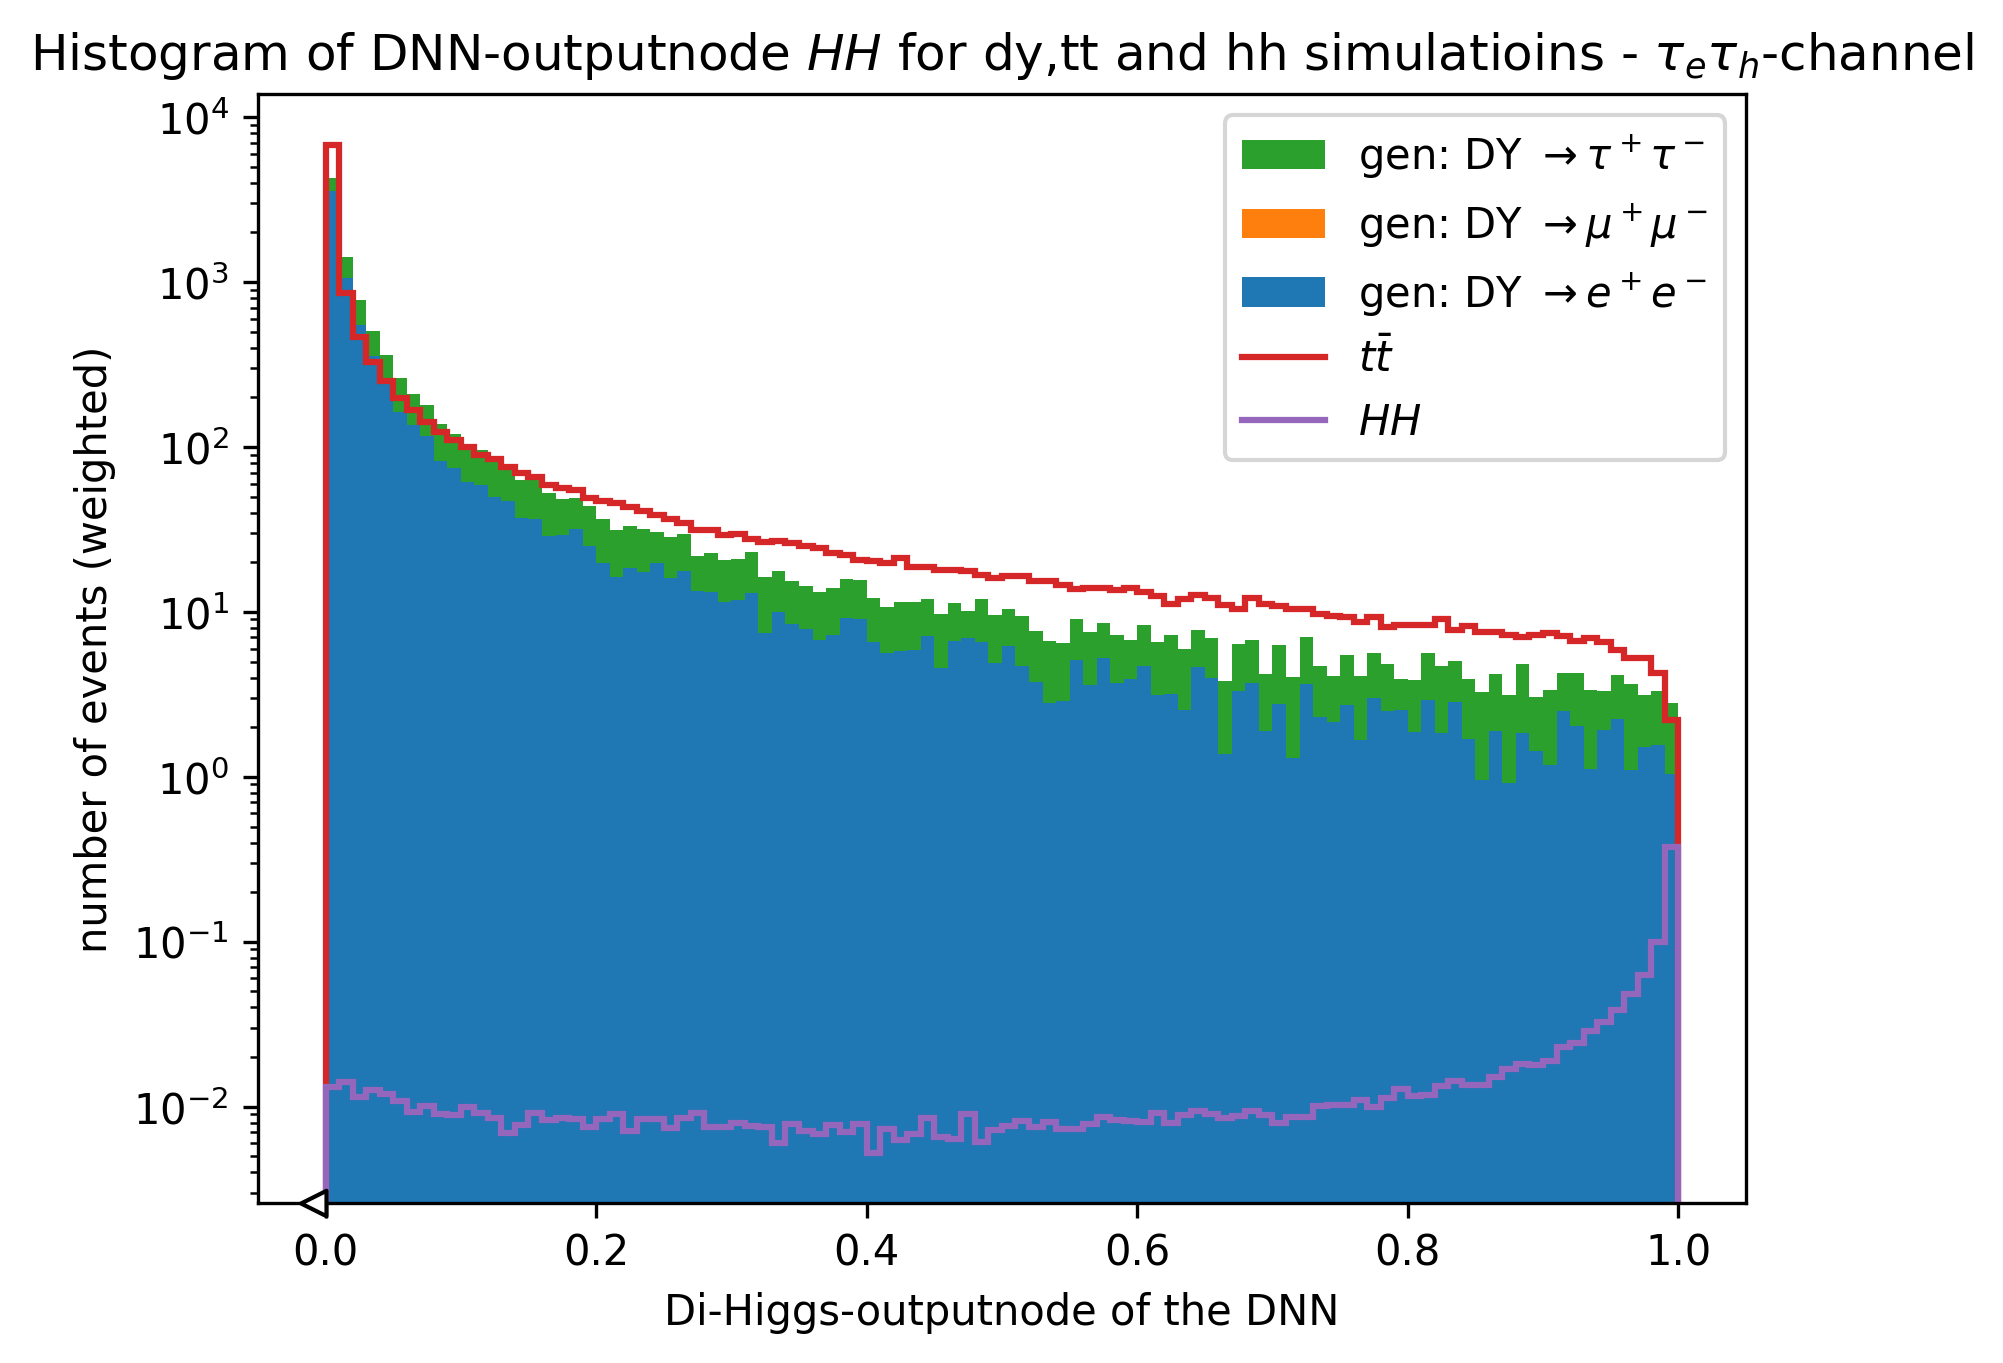
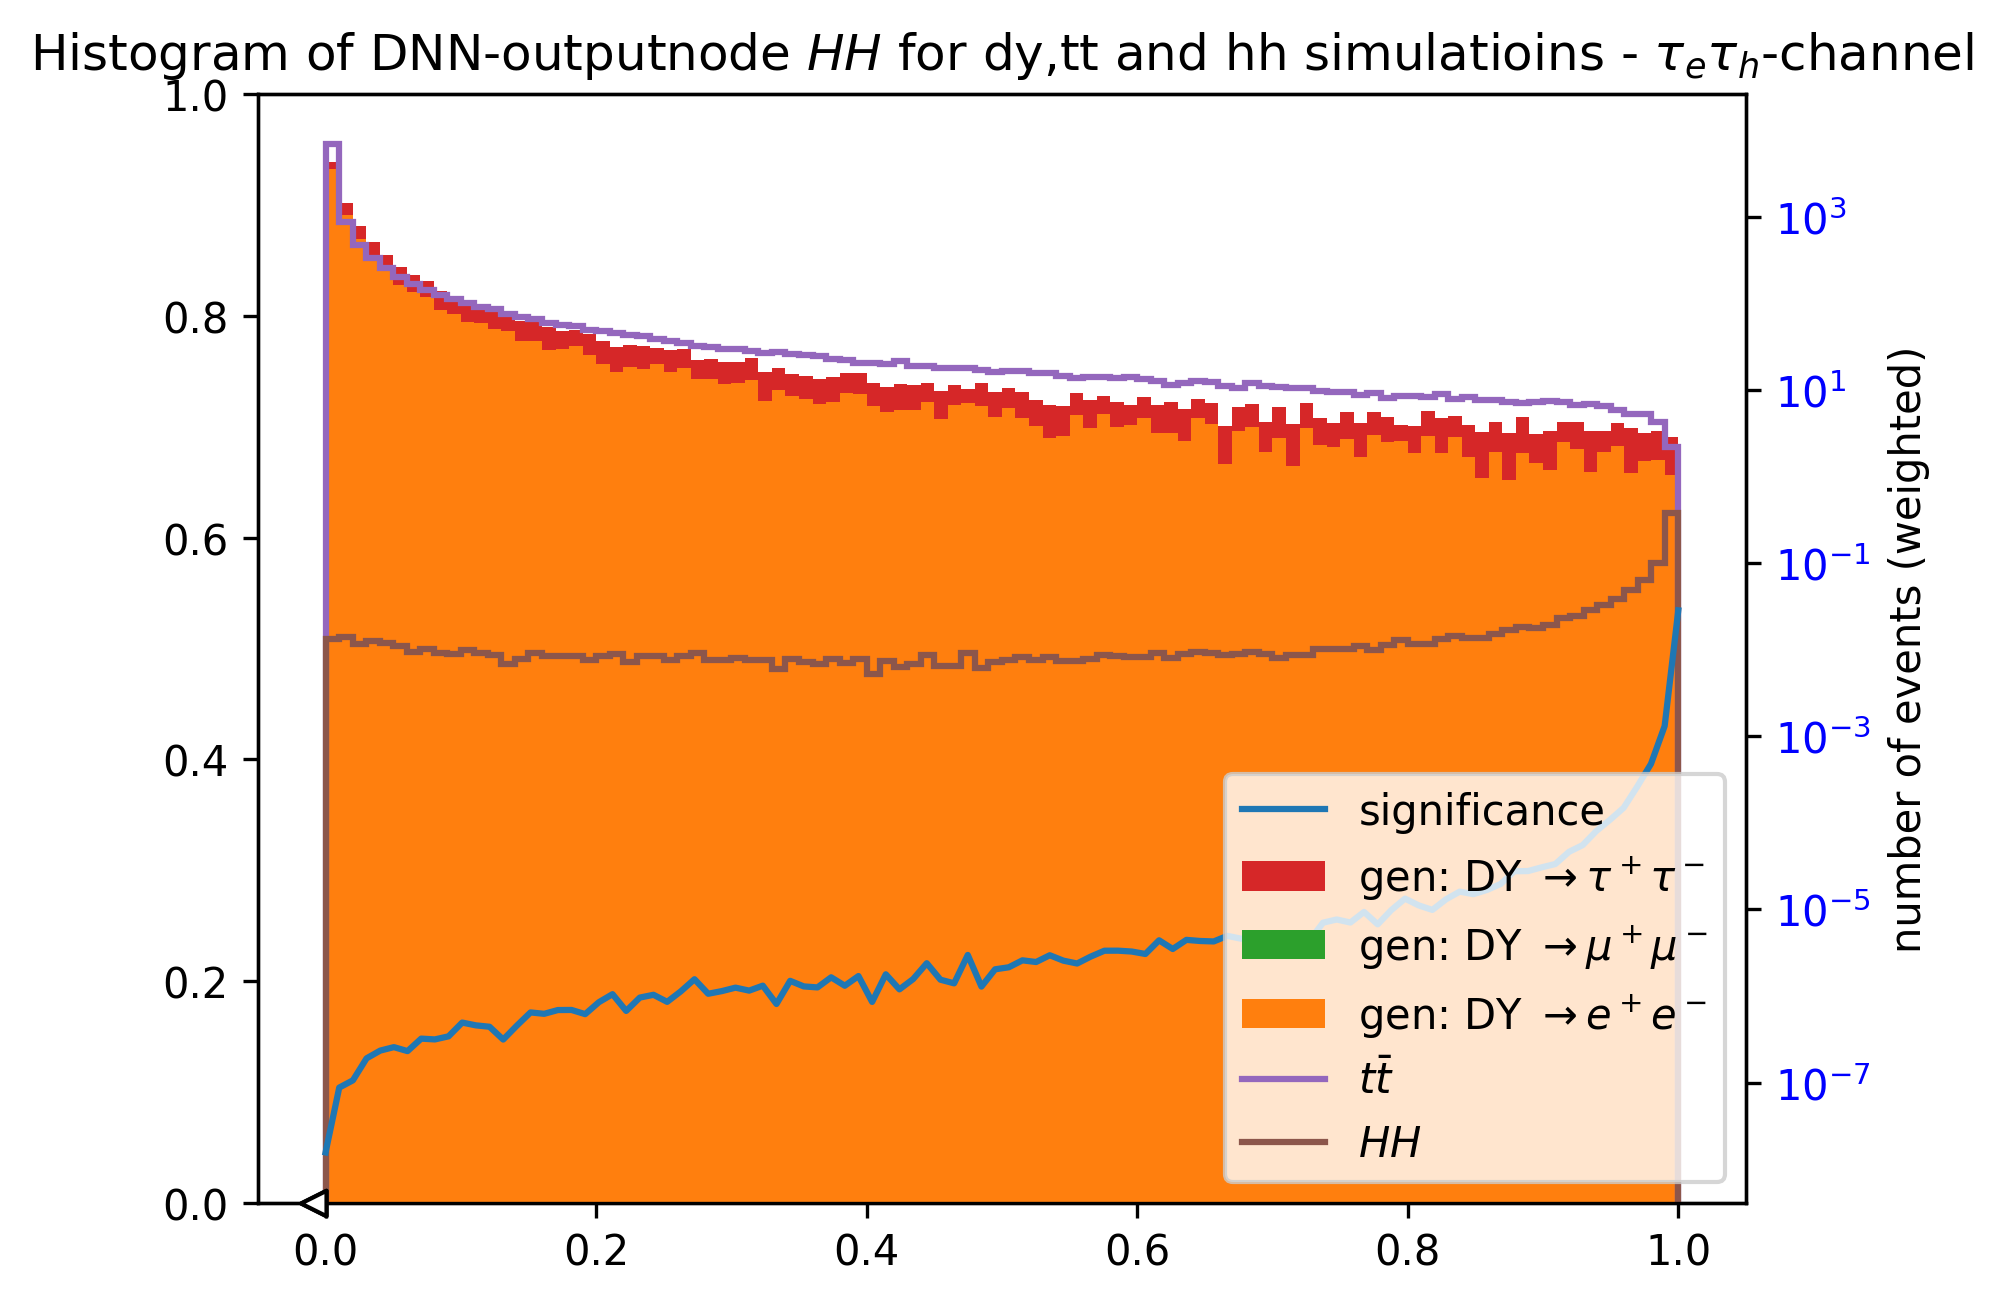
Signifikanz zu einem Plot hinzugefügt, noch nicht final!

diff --git a/hists_1.py b/hists_1.py
@@ -15,6 +15,7 @@ dy = Hist(
 )
 tt = Hist(hist.axis.Regular(bins=100, start=0, stop=1, name="x"))
 hh = Hist(hist.axis.Regular(bins=100, start=0, stop=1, name="x"))
+s = Hist(hist.axis.Regular(bins=100, start=0, stop=1, name="x"))
 
 #Namen der decay channel definieren:
 channelname=["e-tau", "mu-tau", "tau-tau"]
@@ -29,6 +30,17 @@ for i in [1,2,3]:
 
     tt.fill(events_tt.run3_dnn_moe_hh[events_tt.channel_id == i],weight=events_tt.event_weight[events_tt.channel_id == i])
     hh.fill(events_hh.run3_dnn_moe_hh[events_hh.channel_id == i],weight=events_hh.event_weight[events_hh.channel_id == i])
+
+    #from IPython import embed; embed(header="MESSAGE Line 34 | File: hists_1.py")
+    fig, ax1 = plt.subplots()
+    background_bins = np.sum(dy.values(),axis=0)+ tt.values()
+    signal_bins = hh.values()
+    significance = signal_bins**2/background_bins
+    ax2 = ax1.twinx()  # Erstellt die rechte Achse
+    ax2.plot(np.linspace(0, 1, 100),significance, label="significance")
+    ax2.set_ylabel('Exponentielle Werte')
+    ax2.tick_params(axis='y', labelcolor='b')
+    #plt.plot(significance)
 
     plt.yscale('log')    #Achse logarithmisch skalieren 
 
